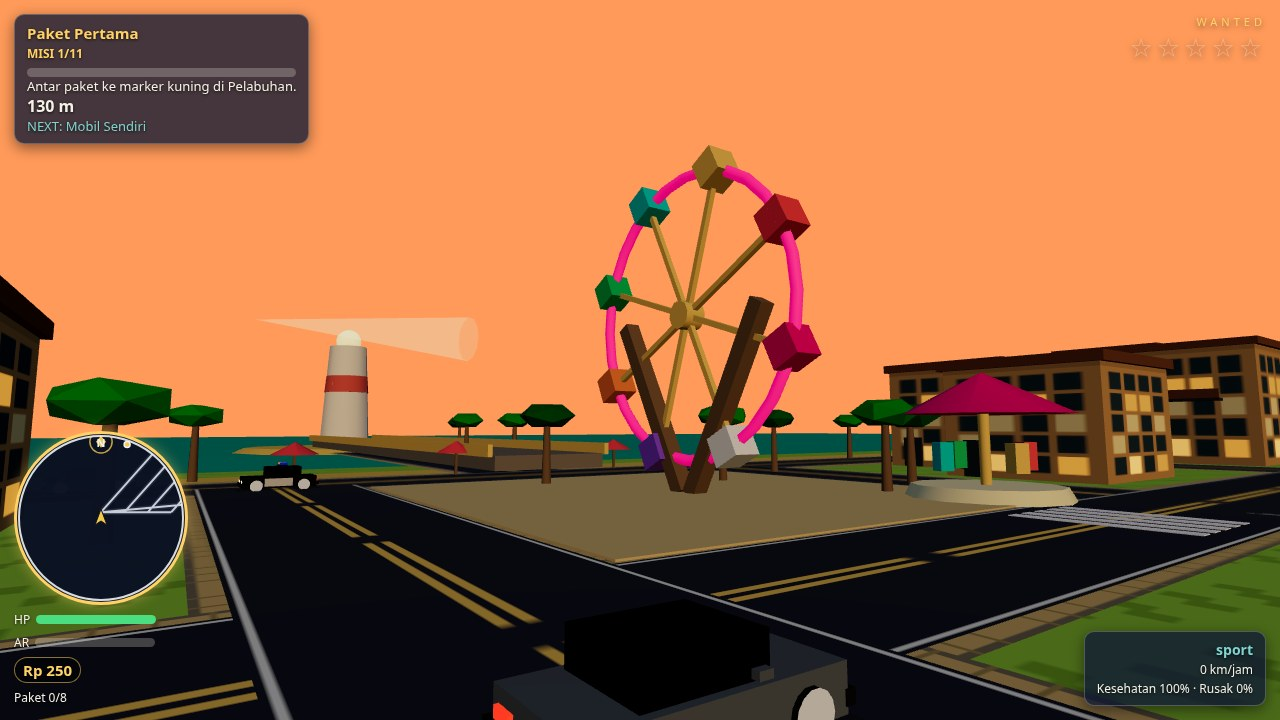
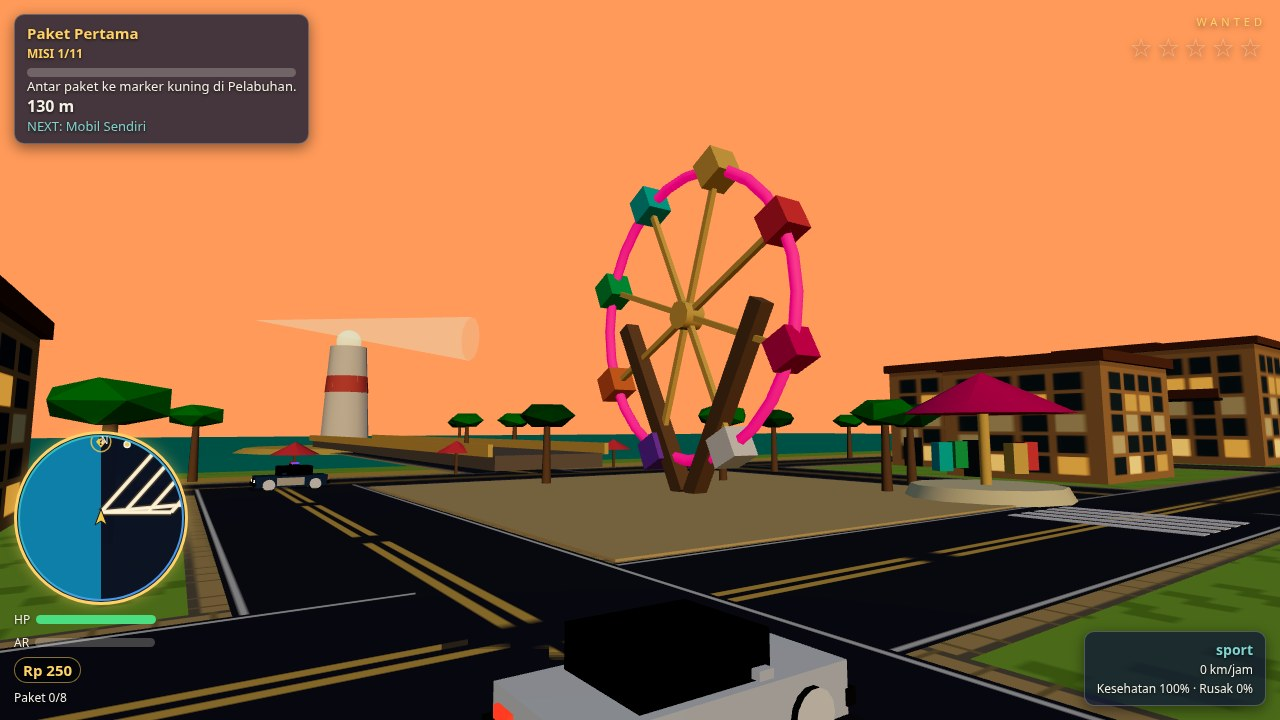
M28: minimap gaya GTA V + cerahkan semua warna mobil + trim dossier
M28a (hud.js): laut biru, jalan 3 lapis krem, ring gradien teal-biru,
ikon H safehouse + ? misi; tint distrik/blok pink SKIP (tidak ada data).
M28b (vehicles.js): sedan 0xe8ecf0, van 0x7fd4ff, pickup 0xff6b35,
sport 0x2ee6c8, police 0x2c4a6e + emissive 0.15 (taxi tetap 0xf2c94c).
M28c: probe sensus neon — van di jalurnya sendiri, 0 overlap.
Trim dossier 5 baris komentar (traffic.js, police-pursuit.js).
Dossier 163.594 B (headroom 246 B, tanpa truncasi).
Screenshot baru: cover-A / neon-A / park-B; 4-map dipertahankan.

diff --git a/game/src/hud.js b/game/src/hud.js
@@ -155,11 +155,16 @@ export function createHud() {
 
     mm.fillStyle = 'rgba(10, 16, 32, 0.85)';
     mm.fillRect(0, 0, w, h);
+    mm.font = 'bold 11px system-ui, sans-serif';
+    mm.textAlign = 'center';
+    mm.textBaseline = 'middle';
+    mm.fillStyle = '#0e7fa8';
+    mm.fillRect(0, 0, toX(-220), h);
 
     const graph = data.graph;
     if (graph && Array.isArray(graph.edges)) {
-      mm.strokeStyle = '#20283d';
-      mm.lineWidth = 5;
+      mm.strokeStyle = '#3a2f22';
+      mm.lineWidth = 7;
       mm.beginPath();
       for (const edge of graph.edges) {
         const pts = edgePoints(edge, graph.nodes);
@@ -169,7 +174,10 @@ export function createHud() {
         mm.lineTo(toX(pts.b.x), toY(pts.b.z));
       }
       mm.stroke();
-      mm.strokeStyle = '#c8ccd4';
+      mm.strokeStyle = '#e8dcc0';
+      mm.lineWidth = 4;
+      mm.stroke();
+      mm.strokeStyle = '#fff3d6';
       mm.lineWidth = 2;
       mm.stroke();
     }
@@ -177,7 +185,11 @@ export function createHud() {
     const safe = normPoint(data.safehouse);
     if (safe && inView(safe.x, safe.z)) {
       mm.fillStyle = '#2ecc71';
-      mm.fillRect(toX(safe.x) - 4, toY(safe.z) - 4, 8, 8);
+      mm.beginPath();
+      mm.arc(toX(safe.x), toY(safe.z), 6, 0, Math.PI * 2);
+      mm.fill();
+      mm.fillStyle = '#fff';
+      mm.fillText('H', toX(safe.x), toY(safe.z));
     }
 
     const marker = normPoint(data.missionMarker);
@@ -198,6 +210,8 @@ export function createHud() {
       mm.lineTo(mx - 5, my);
       mm.closePath();
       mm.fill();
+      mm.fillStyle = '#11141b';
+      mm.fillText('?', mx, my);
     }
 
     const dots = (list, r) => {
@@ -241,16 +255,16 @@ export function createHud() {
 
     mm.restore();
 
-    mm.strokeStyle = 'rgba(238, 241, 245, 0.9)';
+    const gr = mm.createLinearGradient(0, 0, w, h);
+    gr.addColorStop(0, '#2ec4b6');
+    gr.addColorStop(1, '#4f8ef7');
+    mm.strokeStyle = gr;
     mm.lineWidth = 2;
     mm.beginPath();
     mm.arc(cx, cy, r, 0, Math.PI * 2);
     mm.stroke();
     mm.fillStyle = '#eef1f5';
-    mm.font = 'bold 11px system-ui, sans-serif';
-    mm.textAlign = 'center';
-    mm.textBaseline = 'top';
-    mm.fillText('N', cx, 4);
+    mm.fillText('N', cx, 10);
   }
 
   function normalize(raw) {

diff --git a/game/src/vehicles.js b/game/src/vehicles.js
@@ -1,12 +1,12 @@
 import * as THREE from 'three';
 
 const FALLBACK_TYPES = {
-  sedan:  { maxSpeed: 26, accel: 14, color: 0x9aa3ad },
+  sedan:  { maxSpeed: 26, accel: 14, color: 0xe8ecf0 },
   taxi:   { maxSpeed: 24, accel: 13, color: 0xf2c94c },
-  van:    { maxSpeed: 20, accel: 10, color: 0x7a8a99 },
-  pickup: { maxSpeed: 24, accel: 12, color: 0xb0563a },
-  sport:  { maxSpeed: 38, accel: 22, color: 0x14b8a6 },
-  police: { maxSpeed: 35, accel: 20, color: 0x14181d },
+  van:    { maxSpeed: 20, accel: 10, color: 0x7fd4ff },
+  pickup: { maxSpeed: 24, accel: 12, color: 0xff6b35 },
+  sport:  { maxSpeed: 38, accel: 22, color: 0x2ee6c8 },
+  police: { maxSpeed: 35, accel: 20, color: 0x2c4a6e },
 };
 
 function typeSpec(type) { return FALLBACK_TYPES[type] || FALLBACK_TYPES.sedan; }
@@ -64,6 +64,7 @@ export function buildCarMesh(type) {
   const g = new THREE.Group();
   const paint = new THREE.MeshStandardMaterial({
     color: new THREE.Color(spec.color), metalness: 0.55, roughness: 0.35,
+    emissive: spec.color, emissiveIntensity: 0.15,
   });
   const glass = new THREE.MeshStandardMaterial({ color: 0x16222e, metalness: 0.9, roughness: 0.15 });
   const dark = new THREE.MeshStandardMaterial({ color: 0x0c0e11, roughness: 0.9 });

diff --git a/game/src/traffic.js b/game/src/traffic.js
@@ -40,7 +40,6 @@ function separateCars(cars) {
         a.speed = as * 0.3 + bs * 0.7;
         b.speed = bs * 0.3 + as * 0.7;
       }
-      // Crash stop: hapus laju mendekat, cegah selip ke samping.
       const fa = Math.sin(a.heading) * nx + Math.cos(a.heading) * nz;
       const fb = Math.sin(b.heading) * nx + Math.cos(b.heading) * nz;
       if (fa * a.speed > 0 && Math.abs(fa) > 0.5) a.speed = 0;
@@ -84,7 +83,6 @@ export function createTraffic(scene, graph, fleet, rng) {
     if (!fromId || !dest) { car._t.route = []; return; }
     car._t.route = planRoute(graph, fromId, dest.id);
     car._t.wp = 0;
-    // Jangan lompat ke route[1] bila jauh dari route[0] (repath); beeline diagonal memotong blok.
     const n0 = nodePos(graph, fromId);
     if (n0 && Math.hypot(n0.x - car.pos.x, n0.z - car.pos.z) < 3) car._t.wp = 1;
   }

diff --git a/game/src/police-pursuit.js b/game/src/police-pursuit.js
@@ -27,8 +27,6 @@ export function hasLineOfSight(a, b, colliders) {
   return true;
 }
 
-// Pilih node jauh dari target: tier pertama yang punya kandidat menang
-// (tiers = [jarakMin, dotMax], dotMax null = tanpa syarat arah; top3 = acak dari 3 terjauh).
 function farNode(nodes, tp, vd, rand, tiers, top3) {
   const dist = (n) => Math.hypot(n.x - tp.x, n.z - tp.z);
   const dot = (n) => ((n.x - tp.x) * vd.x + (n.z - tp.z) * vd.z) / (dist(n) || 1);
@@ -92,7 +90,6 @@ export function createPolice(scene, graph, fleet, rng) {
     return Math.hypot(p.x - x, p.z - z) <= ROAD_BAND;
   }
 
-  // Batasi gerak unit ke pita 3,0 di sekitar centerline terdekat.
   function enforceRoadBand(unit, dt) {
     const car = unit.car;
     if (!car) return;
